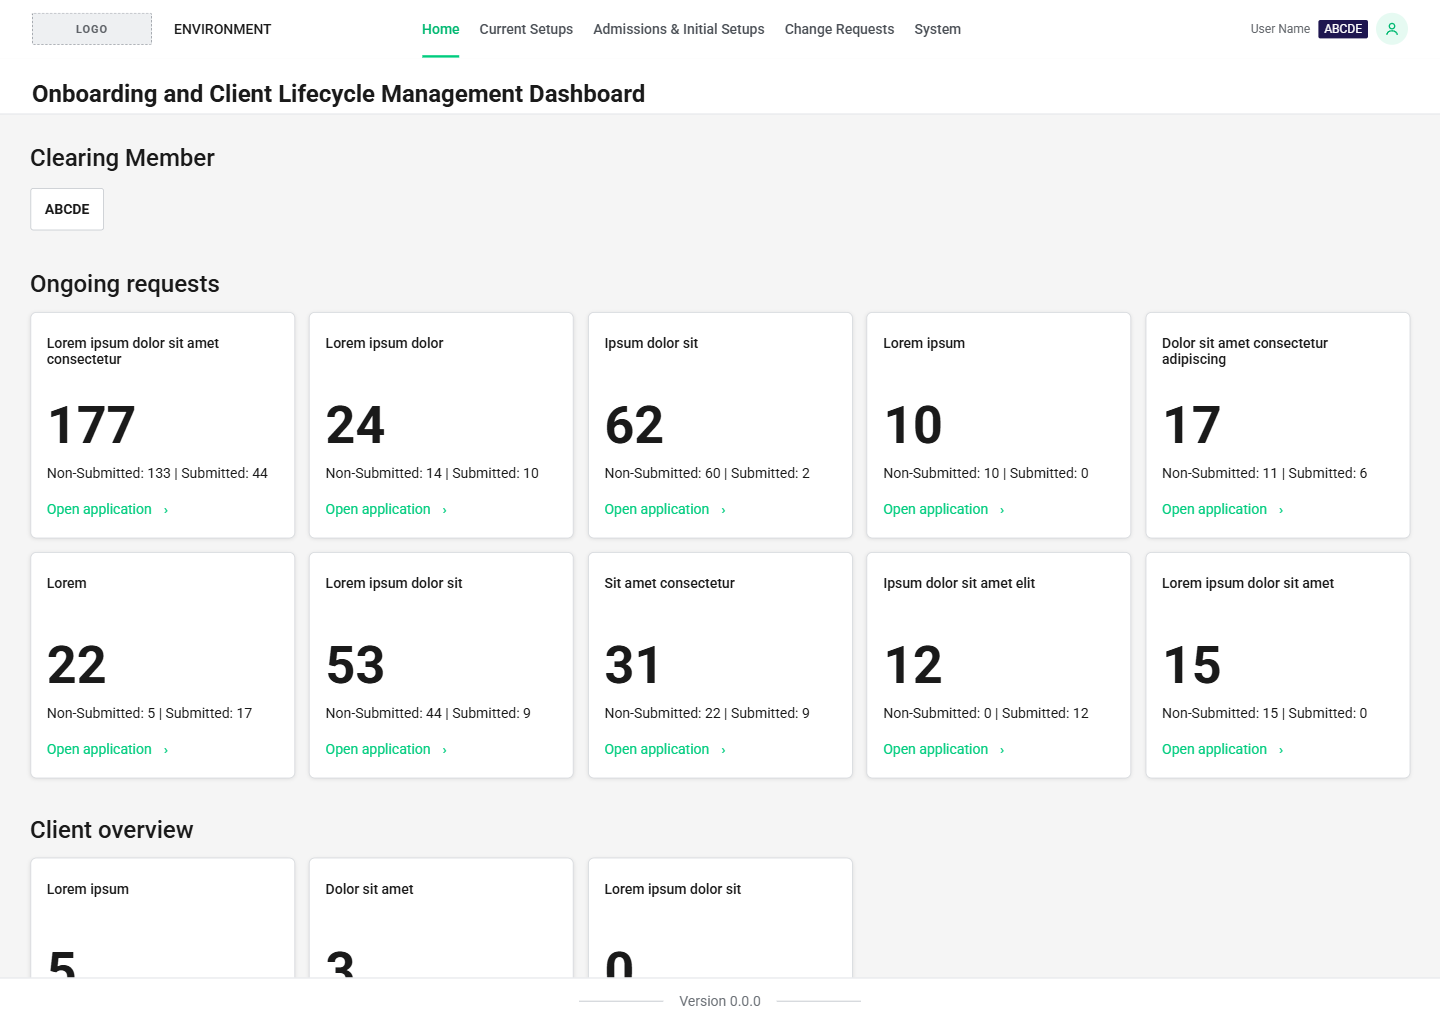
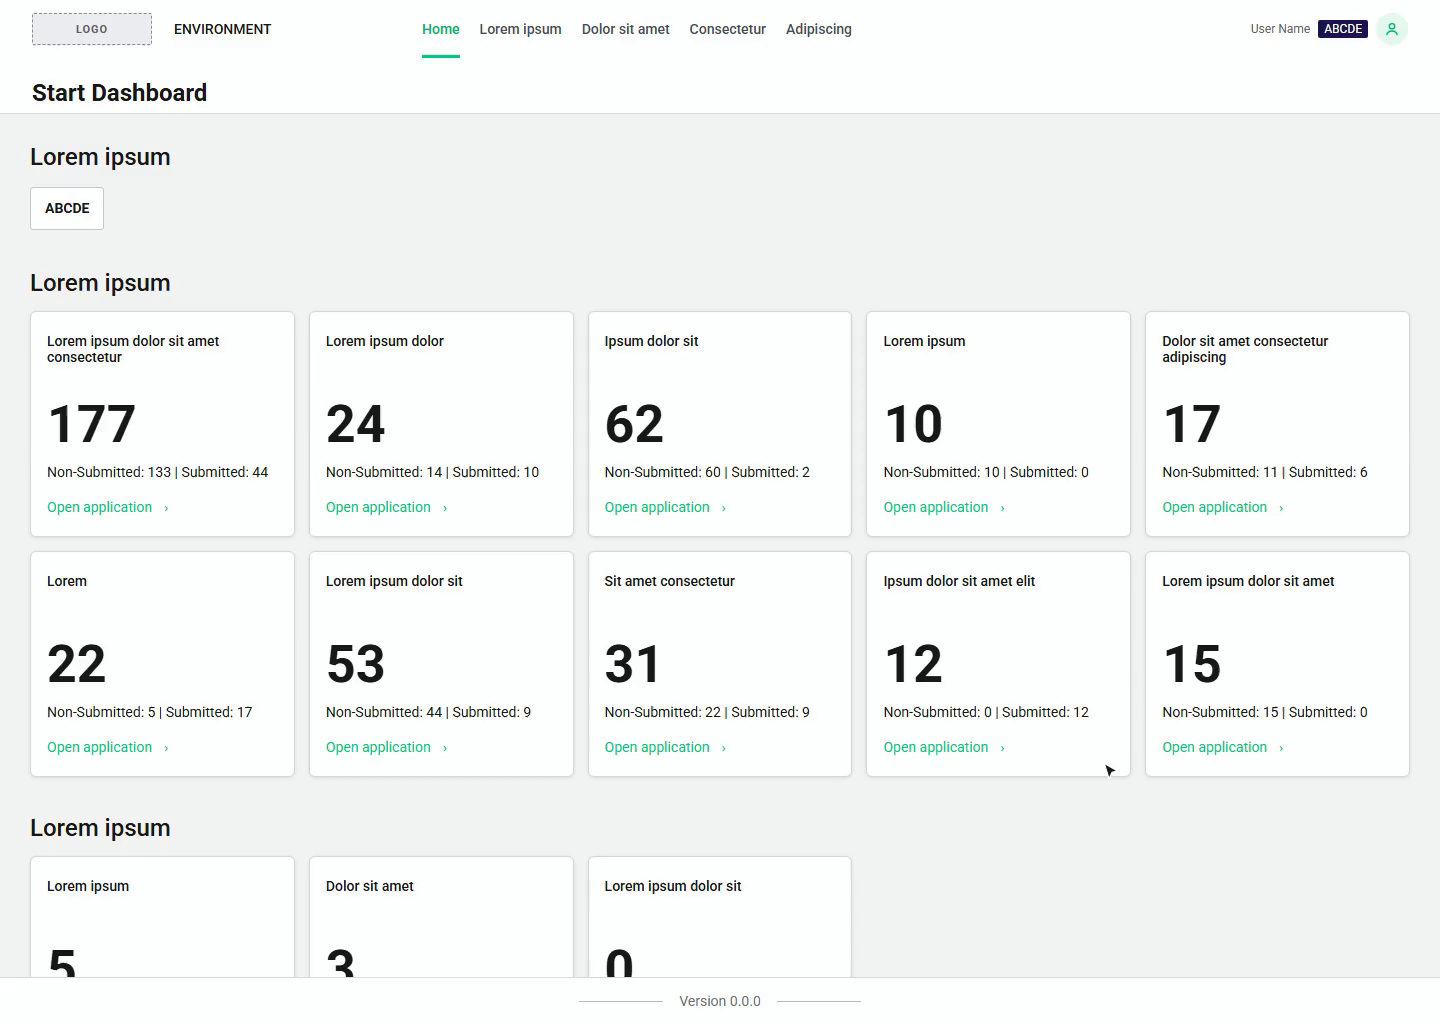
Onboarding Tool: Titel und Texte allgemein gehalten, neues Vorschaubild

diff --git a/index.html b/index.html
@@ -702,24 +702,24 @@
     </div>
   </template>
 
-  <template data-case data-slug="company-admission" data-layout="A"
-    data-title="Company Admission Tool" data-discipline="Product Design (UX/UI)" data-categories="product"
+  <template data-case data-slug="onboarding-tool" data-layout="A"
+    data-title="Onboarding Tool (internal/external)" data-discipline="Product Design (UX/UI)" data-categories="product"
     data-teaser="A dense onboarding tool made easy to scan."
-    data-card-image="images/admission tool/Previewbild@1x.png" data-card-alt="Redesigned dashboard of the Company Admission Tool"
+    data-card-image="images/admission tool/Previewbild@1x.png" data-card-alt="Redesigned dashboard of the onboarding tool"
     data-card-video="images/admission tool/dashboard-animation.mp4">
     <dl class="snapshot">
       <div><dt>Role</dt><dd>Lead UX/UI Designer</dd></div>
-      <div><dt>Users</dt><dd>External Clearing Members · internal Onboarding and Key Account Managers</dd></div>
+      <div><dt>Users</dt><dd>Clients and client-facing teams</dd></div>
       <div><dt>Scope</dt><dd>Workflow mapping · Wireframes · UI strategy · Component library · Handoff</dd></div>
       <div><dt>Tools</dt><dd>Figma</dd></div>
     </dl>
     <figure class="case-hero">
-      <video class="case-hero-video" src="images/admission tool/dashboard-animation.mp4" width="1440" height="1024" autoplay muted loop playsinline preload="auto" aria-label="Animation of the redesigned Company Admission Tool dashboard"></video>
+      <video class="case-hero-video" src="images/admission tool/dashboard-animation.mp4" width="1440" height="1024" autoplay muted loop playsinline preload="auto" aria-label="Animation of the redesigned onboarding tool dashboard"></video>
     </figure>
     <div class="case-body">
       <section class="case-section">
         <h2>The challenge</h2>
-        <p>The tool handles onboarding and segregation changes for external members and internal teams. Its dated, low-contrast interface made dense information hard to read, and important workflows were hidden in complex menus.</p>
+        <p>The tool handles onboarding for clients and client-facing teams. Its dated, low-contrast interface made dense information hard to read, and important workflows were hidden in complex menus.</p>
       </section>
       <section class="case-section">
         <h2>My role</h2>
@@ -736,12 +736,12 @@
       <section class="case-section">
         <h2>The redesign</h2>
         <p>A calm background, a considered colour palette and consistent components give structure to the dashboard, tables, cards, navigation, pop-ups and notifications. A Figma library with hover, active and disabled states became the shared reference for design and development.</p>
-        <figure class="case-media case-media-plain"><img loading="lazy" src="images/admission tool/01 · Dashboard@1x.png" width="1440" height="2015" alt="Full dashboard of the redesigned Company Admission Tool"><figcaption>Dashboard: the full page.</figcaption></figure>
+        <figure class="case-media case-media-plain"><img loading="lazy" src="images/admission tool/01 · Dashboard@1x.png" width="1440" height="2015" alt="Full dashboard of the redesigned onboarding tool"><figcaption>Dashboard: the full page.</figcaption></figure>
         <div class="case-gallery case-gallery-screens">
-          <figure><img loading="lazy" src="images/admission tool/02 · Table Overview@1x.png" width="1440" height="1024" alt="Overview table with search, export, sortable columns and admission status tags"><figcaption>Table overview: dense data, easy to scan with sortable columns and status tags.</figcaption></figure>
-          <figure><img loading="lazy" src="images/admission tool/03 · Create Request Modal@1x.png" width="1440" height="1024" alt="Create new request modal with market and participant selection over the request table"><figcaption>New request: a short modal over the table, so users keep their context.</figcaption></figure>
-          <figure><img loading="lazy" src="images/admission tool/04 · Selection List@1x.png" width="1440" height="1024" alt="Assign new capacity: list of available capacities with add buttons and a breadcrumb"><figcaption>Assign a capacity: one list, one action per row, the breadcrumb shows the step.</figcaption></figure>
-          <figure><img loading="lazy" src="images/admission tool/05 · Form Setup@1x.png" width="1440" height="1024" alt="Capacity setup form with name, currency and a clearing-only toggle"><figcaption>Form setup: review the capacity, set clearing only, confirm.</figcaption></figure>
+          <figure><img loading="lazy" src="images/admission tool/02 · Table Overview@1x.png" width="1440" height="1024" alt="Overview table with search, export, sortable columns and status tags"><figcaption>Table overview: dense data, easy to scan with sortable columns and status tags.</figcaption></figure>
+          <figure><img loading="lazy" src="images/admission tool/03 · Create Request Modal@1x.png" width="1440" height="1024" alt="Create new request modal over the request table"><figcaption>New request: a short modal over the table, so users keep their context.</figcaption></figure>
+          <figure><img loading="lazy" src="images/admission tool/04 · Selection List@1x.png" width="1440" height="1024" alt="Selection list with add buttons and a breadcrumb"><figcaption>Selection list: one list, one action per row, the breadcrumb shows the step.</figcaption></figure>
+          <figure><img loading="lazy" src="images/admission tool/05 · Form Setup@1x.png" width="1440" height="1024" alt="Setup form with input fields and a toggle"><figcaption>Form setup: review the details, set the options, confirm.</figcaption></figure>
         </div>
       </section>
       <section class="case-section">
